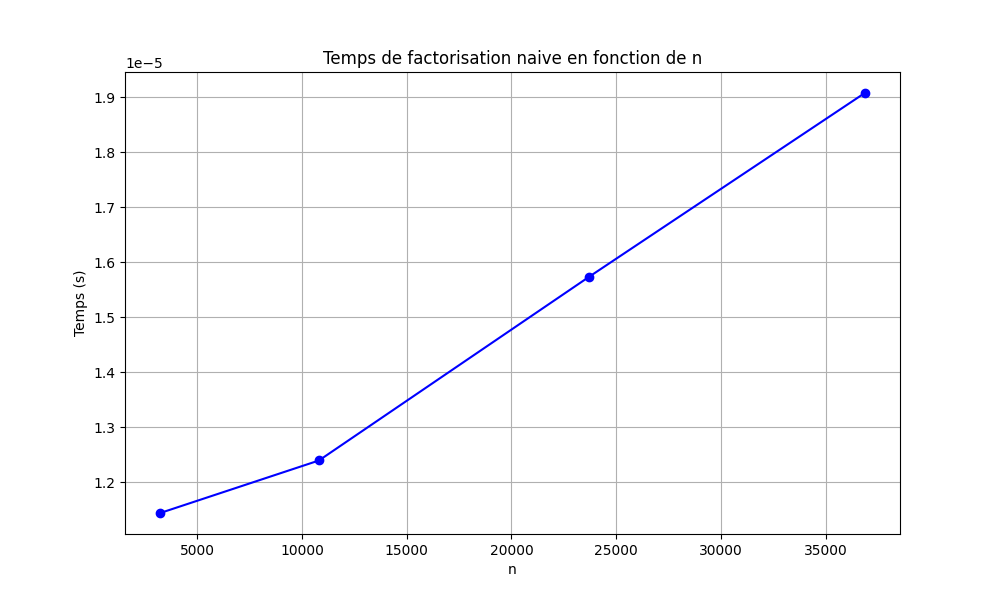
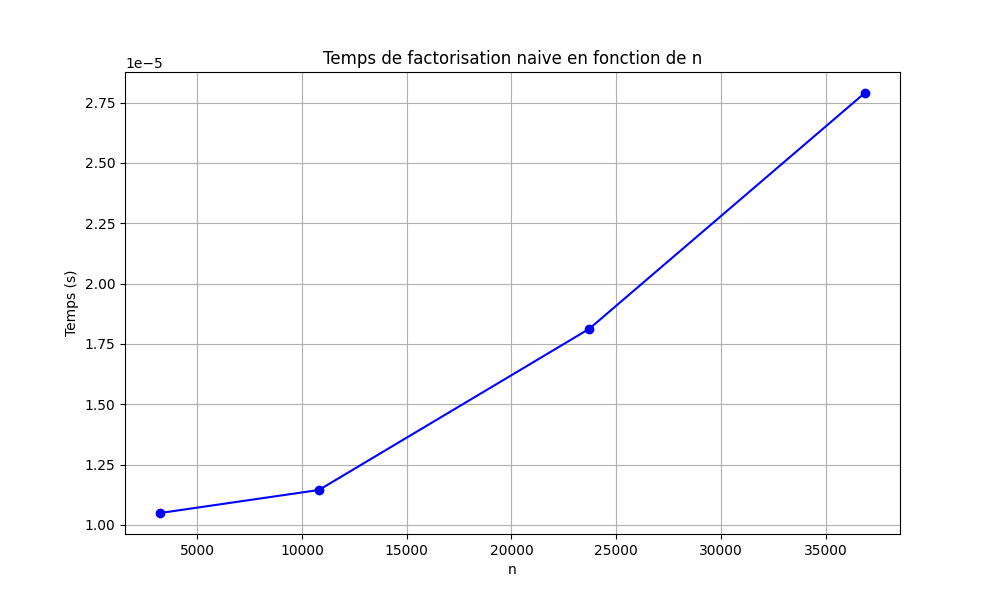
third commit

diff --git a/main.py b/main.py
@@ -19,7 +19,7 @@ print("\n" + "="*60)
 print("[PARTIE 1] GENERATION DE CLES RSA (vulnerable)")
 print("="*60)
 
-p, q, e = 61, 53, 17
+p, q, e = 99023, 99053, 17
 n = p * q
 phi = (p - 1) * (q - 1)
 d = inverse_modulaire(e, phi)
@@ -63,24 +63,34 @@ print("\n" + "="*60)
 print("[PARTIE 3] ATTAQUE RACINE CUBIQUE (e petit)")
 print("="*50)
 
-pub1, priv1 = generer_cles(99023, 99053, 3)
-e1, n1 = pub1
-C1 = chiffrer(M, e1, n1)
-M1 = attaque_racine_cubique(C1, n1)
-print(f"n={n1}, C={C1}")
-print(f"Attaque 1 (petit exposant) -> M retrouve = {M1}")
+M_cube = M ** 3
+p1, q1 = 1500007, 1500019
+n1 = p1 * q1
+
+if M_cube >= n1:
+    print(f"ATTENTION: M^3 = {M_cube} >= n = {n1}")
+    print("Condition non remplie, attaque impossible pour ce M")
+    print("Cette attaque fonctionne uniquement si M est petit")
+    print(f"Exemple qui marche : M=7 -> 7^3=343 < n")
+    M1 = None
+else:
+    e1 = 3
+    C1 = pow(M, e1, n1)
+    M1 = attaque_racine_cubique(C1, n1)
+    print(f"n={n1}, C={C1}")
+    print(f"Attaque 1 (petit exposant) -> M retrouve = {M1}")
 
 print("\n" + "="*60)
 print("[PARTIE 4] ATTAQUE PAR FACTORISATION")
 print("="*50)
 
-pub2, priv2 = generer_cles(61, 53, 17)
-e2, n2 = pub2
-C2 = chiffrer(M, e2, n2)
-p, q = factorisation_naive(n2)
-phi = (p-1)*(q-1)
-d_recup = inverse_modulaire(e2, phi)
-M2 = dechiffrer(C2, d_recup, n2)
+p2, q2, e2 = 99023, 99053, 17
+n2 = p2 * q2
+C2 = pow(M, e2, n2)
+p_factor, q_factor = factorisation_naive(n2)
+phi2 = (p_factor - 1) * (q_factor - 1)
+d_recup = inverse_modulaire(e2, phi2)
+M2 = pow(C2, d_recup, n2)
 print(f"n={n2}, C={C2}")
 print(f"Attaque 2 (factorisation)  -> M retrouve = {M2}")
 
@@ -88,22 +98,19 @@ print("\n" + "="*60)
 print("[PARTIE 5] ATTAQUE BROADCAST (CRT)")
 print("="*50)
 
-pairs = [
-    generer_cles(99017, 99023, 3),
-    generer_cles(99017, 99053, 3),
-    generer_cles(99023, 99053, 3),
-]
-n_vals = []
+p_bc1, q_bc1 = 1299709, 1299721
+p_bc2, q_bc2 = 1299743, 1299763
+p_bc3, q_bc3 = 1299791, 1299811
+
+n_bc = [p_bc1*q_bc1, p_bc2*q_bc2, p_bc3*q_bc3]
 C_vals = []
-for pub, _ in pairs:
-    e, n = pub
-    n_vals.append(n)
+for n in n_bc:
     C_val = pow(M, 3, n)
     C_vals.append(C_val)
     print(f"n={n}, C={C_val}")
 
 M3 = None
-M_reconstruct = crt(C_vals, n_vals)
+M_reconstruct = crt(C_vals, n_bc)
 if M_reconstruct:
     M3 = round(M_reconstruct ** (1/3))
     print(f"M^3 reconstruct = {M_reconstruct}")